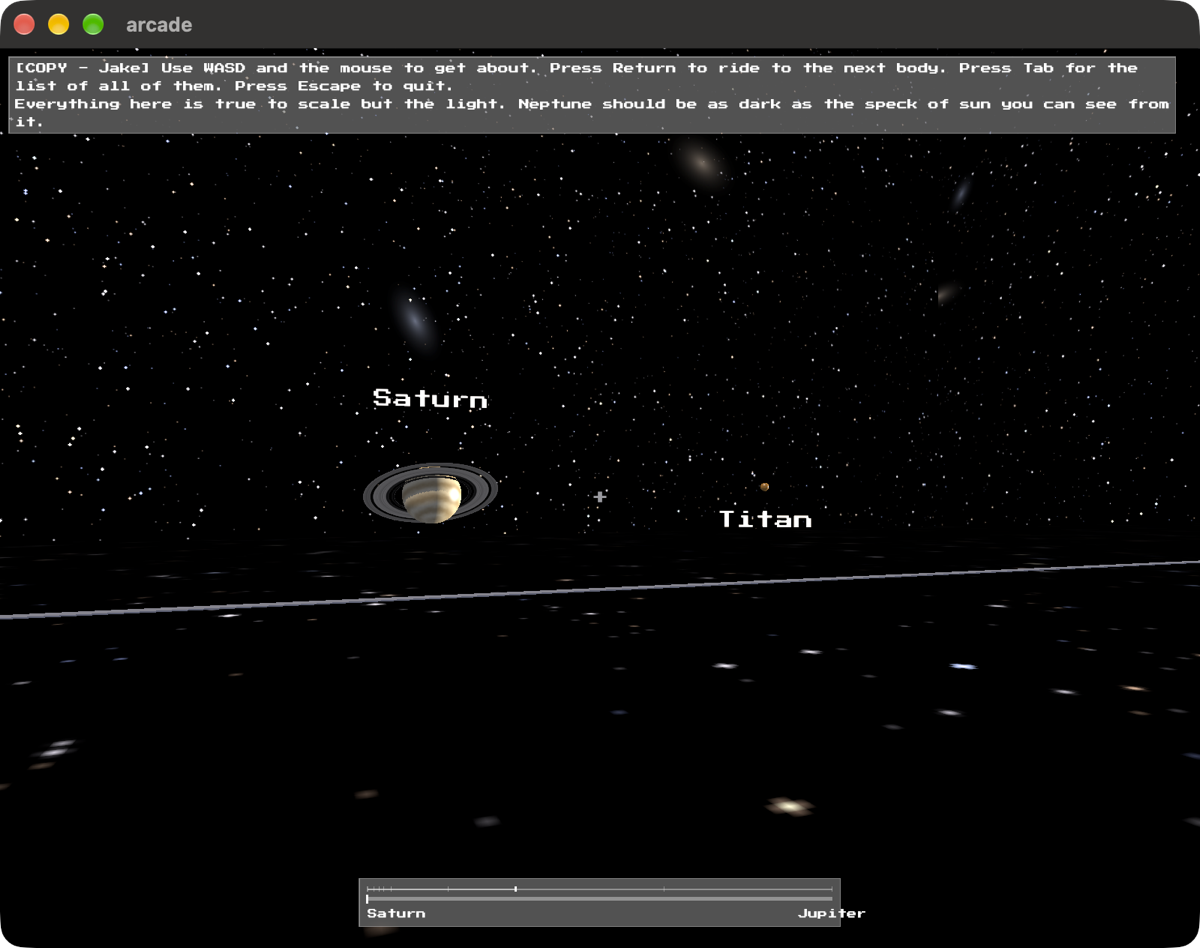
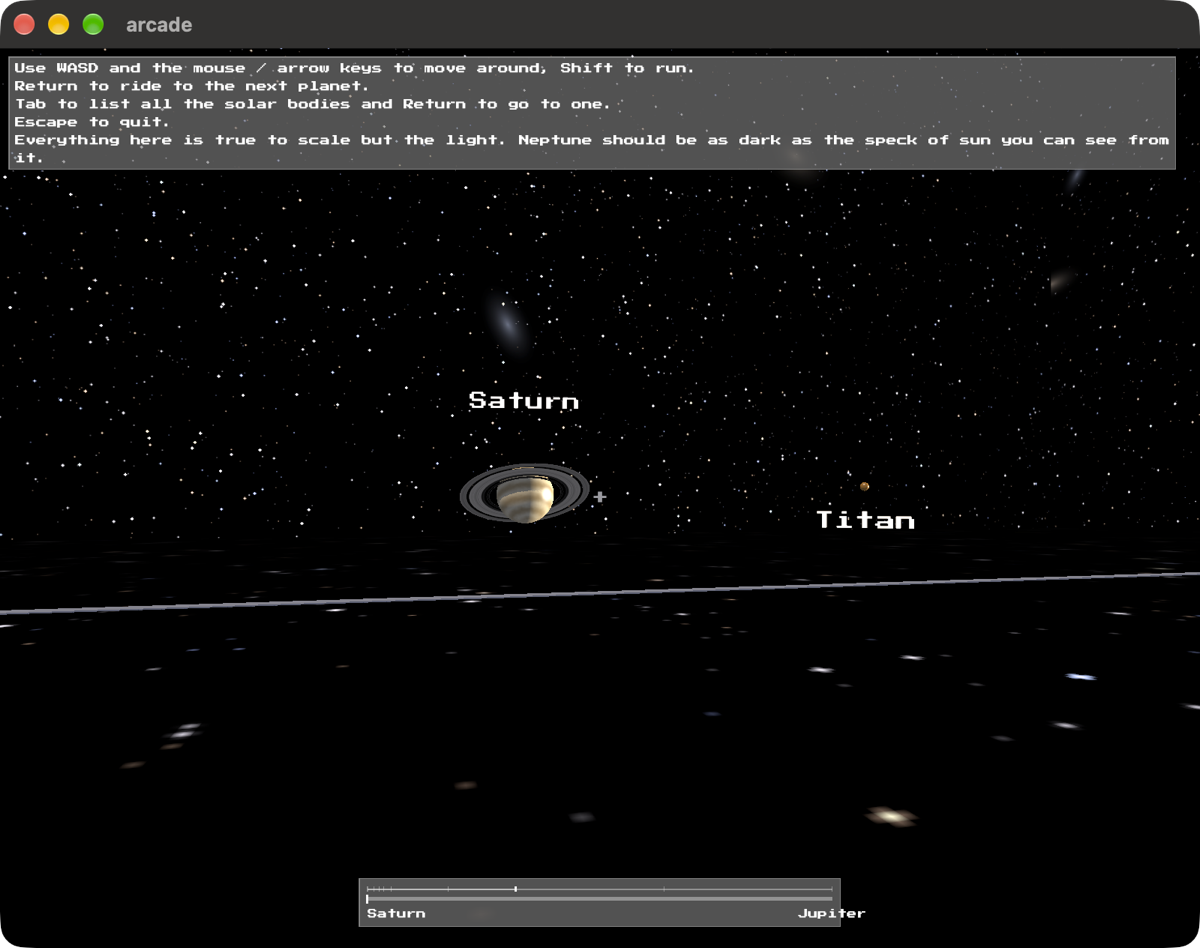
Stage the shot the screenshot actually is
refresh-screenshots regenerates every repo's media/screenshot.png by running
it with --screenshot and photographing the window. The arcade's --screenshot
posed in the hall while the committed picture was Saturn, so the first person
to run that script would have quietly undone a day's work. I took today's
pictures by hand with my own scaffolding instead of through the project's
script, which is how the two came apart.

--screenshot stages Saturn and Titan now, and running refresh-screenshots
arcade produces the committed file. The hall's pose is still here behind
--screenshot=hall; it cost two rounds to derive and its reasoning holds.

Worked out from the bodies rather than written down, the way the hall's is
worked out from a cabinet. Past the moon looking back is the one corner where
both are visible: the ring plane is tilted about the line, so a view along the
line lies in it and the rings are a black streak, and a moon stands out at
right angles to the line, so a view across it puts the moon behind its planet.
From there the rings open 25 degrees and the two sit 38 apart.

The test took two wrong bounds to be worth anything. At 25 degrees it passed
with the aim on the moon rather than between the two, which throws Saturn out
of the frame; at 18 it failed the real pose, because I guessed 12 degrees of
separation where the measurement is 19.

Spec 0018.

diff --git a/src/beyond.rs b/src/beyond.rs
@@ -434,6 +434,41 @@ pub fn mapped(stops: &[Stop], here: usize, at: Vec3, facing: Vec3, door: Vec3) -
     }
 }
 
+/// Where a staged shot of this space stands, how far it looks past the moon,
+/// and which stop it counts as being at.
+///
+/// **Saturn and Titan**, because Saturn is the one body in the tables that is
+/// not a ball and a moon at its true distance is the thing this space exists
+/// to show. Nine metres of star field between a planet and its moon is a fact
+/// no diagram gets across.
+///
+/// **Past the moon, looking back**, which is the only place both are visible
+/// at once. The two pull against each other: the ring plane is tilted about
+/// the line, so a view along the line lies in it and the rings are a black
+/// streak, and you have to look across. But a moon stands out at right angles
+/// to the line, so looking across puts it behind its planet. Standing past
+/// the moon and turning back opens the rings 25 degrees and leaves 24 between
+/// the two.
+///
+/// Worked out from the bodies and not written down, the way the hall's own
+/// staged shot is worked out from a cabinet. A bearing goes stale the day
+/// anything moves; a body does not.
+pub const POSED_PAST: f32 = 1.0 / 3.0;
+pub const POSED_ASIDE: f32 = 2.0 / 9.0;
+
+pub fn posed(door: Vec3) -> Option<(Vec3, f32, usize)> {
+    let stops = stops(door);
+    let at = |name: &str| stops.iter().position(|stop| stop.name == name);
+    let (planet, moon) = (at("Saturn")?, at("Titan")?);
+    let (planet, moon) = (stops[planet].at, stops[moon].at);
+    let gap = moon.x - planet.x;
+    let eye = vec3(moon.x + gap * POSED_PAST, 0.0, moon.z + gap * POSED_ASIDE);
+    // aimed between the two, so neither is at the edge of the glass
+    let look = (planet + moon) * 0.5 - eye;
+
+    Some((eye, look.x.atan2(-look.z), at("Saturn")?))
+}
+
 /// How far apart the posts down the line stand, and how big they are.
 ///
 /// A pair every 250 metres, which at the ride's speed is three a second: fast
@@ -1403,6 +1438,78 @@ mod tests {
         assert!(
             marks.iter().filter(|mark| mark.glows).count() >= 60,
             "there are not thirty glowing pairs down the line"
+        );
+    }
+
+    /// Spec 0018: the staged shot stands where both Saturn and its moon can
+    /// be seen and the rings are open.
+    ///
+    /// The two pull against each other. The ring plane is tilted about the
+    /// line, so a view along the line lies in it and the rings come out as a
+    /// black streak; and a moon stands out at right angles to the line, so a
+    /// view across it puts the moon behind its planet. This is the corner that
+    /// satisfies both, and it is worked out from the bodies rather than
+    /// written down, so that nothing here goes stale the day one moves.
+    #[test]
+    fn the_staged_shot_sees_the_rings_and_the_moon() {
+        let door = door();
+        let stops = stops(door);
+        let (eye, yaw, stop) = posed(door).expect("a staged pose");
+        let at = |name: &str| {
+            stops
+                .iter()
+                .find(|stop| stop.name == name)
+                .expect("a stop")
+                .at
+        };
+        let (saturn, titan) = (at("Saturn"), at("Titan"));
+
+        assert_eq!(stops[stop].name, "Saturn");
+        assert!(
+            eye.x > titan.x,
+            "the eye is at {} and Titan at {}, so it is not past the moon",
+            eye.x,
+            titan.x
+        );
+
+        // which way it looks, by the same rule `Arcade::facing` uses
+        let look = vec3(yaw.sin(), 0.0, -yaw.cos());
+
+        for body in [saturn, titan] {
+            let to = (vec3(body.x, 0.0, body.z) - vec3(eye.x, 0.0, eye.z)).normalize();
+            let off = look.dot(to).acos().to_degrees();
+
+            // the two sit 38 degrees apart, so aimed between them each is 19
+            // off the middle. The glass is 30 from the middle to the top and
+            // wider than that across, so 19 is about half way out.
+            //
+            // 22 and not 25: at 25 the test passed with the aim on the moon
+            // rather than between the two, which throws Saturn right out of
+            // the frame.
+            assert!(
+                off < 22.0,
+                "a body at {} is {:.0} degrees off the middle of the glass",
+                body,
+                off
+            );
+        }
+
+        // and the rings are open. Their plane is tilted about z, so its normal
+        // is (-sin tilt, cos tilt, 0) and a view from the floor only opens them
+        // by its own x: looking down the line, which is all z, is edge on.
+        let tilt = crate::orrery::PLANETS
+            .iter()
+            .find(|planet| planet.body.name == "Saturn")
+            .expect("Saturn is in the tables")
+            .body
+            .tilt
+            .to_radians();
+        let open = (look.x * -tilt.sin()).abs().asin().to_degrees();
+
+        assert!(
+            open > 20.0,
+            "the rings are {:.0} degrees open, which is nearly edge on",
+            open
         );
     }
 

diff --git a/src/main.rs b/src/main.rs
@@ -144,7 +144,18 @@ fn inside_its_reach(how_far: f32, reach: f32) -> f32 {
 }
 
 fn staged() -> bool {
-    std::env::args().any(|arg| arg == "--screenshot")
+    std::env::args().any(|arg| arg.starts_with("--screenshot"))
+}
+
+/// Whether the staged shot is the hall's rather than the system's.
+///
+/// `--screenshot` stages what `media/screenshot.png` actually holds, which is
+/// Saturn and its moon, so that `refresh-screenshots` reproduces the committed
+/// picture rather than quietly replacing it with a different one. The hall's
+/// pose is still here behind `--screenshot=hall`: it cost two rounds to derive
+/// and the reasoning on it is still true.
+fn staged_in_the_hall() -> bool {
+    std::env::args().any(|arg| arg == "--screenshot=hall")
 }
 
 /// How far back from the cabinet the staged shot stands, and how far out of
@@ -484,8 +495,20 @@ impl Arcade {
         let (cradle, ropes) = cradle::strung();
 
         let reaches = room.reaches;
-        // worked out before `room` is moved into the struct below
-        let (posed_at, posed_yaw) = posed(&room);
+        // worked out before `room` is moved into the struct below.
+        //
+        // The system's shot by default, because that is what
+        // `media/screenshot.png` holds and `refresh-screenshots` photographs
+        // whatever `--screenshot` stages. The hall's is behind
+        // `--screenshot=hall`.
+        let (posed_at, posed_yaw, posed_stop) = match beyond::posed(beyond::at(reaches)) {
+            Some((at, yaw, stop)) if !staged_in_the_hall() => (at, yaw, stop),
+            _ => {
+                let (at, yaw) = posed(&room);
+
+                (at, yaw, 0)
+            }
+        };
         let (pool_at, pool_size, pool_deep) = spa::pool(reaches);
         let (tub_at, tub_wide, tub_deep) = spa::tub(room.reaches);
         let mut pool = blitzkit::water::Water::new(pool_at, pool_size, pool_deep, spa::CELLS);
@@ -597,7 +620,7 @@ impl Arcade {
             star_mesh: Vec::new(),
             swung: 0.0,
             swinging_out: false,
-            stop: 0,
+            stop: if staged() { posed_stop } else { 0 },
             riding_to: None,
             listing: None,
             units: Vec::new(),
@@ -635,7 +658,13 @@ impl Arcade {
             // looking down the room from the end you start at: forward is
             // (sin yaw, 0, -cos yaw), so nought faces -z
             yaw: if staged() { posed_yaw } else { 0.0 },
-            pitch: if staged() { POSED_PITCH } else { 0.0 },
+            // level out past the door, where there is no floor worth looking
+            // down at, and a little down in the hall
+            pitch: if staged() && staged_in_the_hall() {
+                POSED_PITCH
+            } else {
+                0.0
+            },
             showing_solid: false,
             wants_planes: false,
             fighting: Vec::new(),

diff --git a/specs/0018-the-system-at-true-scale.md b/specs/0018-the-system-at-true-scale.md
@@ -321,6 +321,28 @@ you through a wall, and its eight names came up stacked on the one speck the
 sun had become. It is also what keeps the two lists apart, since a name is
 picked by which body it is for and the same body stands in both systems.
 
+### The staged shot
+
+`--screenshot` stages Saturn and Titan, which is what `media/screenshot.png`
+holds, so that the project's own `refresh-screenshots` reproduces the committed
+picture rather than quietly replacing it. It staged the hall for a day while
+the committed picture was the system, which is a script that undoes your work
+the first time anybody runs it. The hall's pose is still there behind
+`--screenshot=hall`.
+
+Saturn and Titan because Saturn is the one body in the tables that is not a
+ball, and a moon at its true distance is what this space is for.
+
+**Past the moon, looking back**, which is the only place both are visible at
+once, and the two pull against each other to get there. The ring plane is
+tilted about the line, so a view along the line lies in it and the rings come
+out as a black streak; a moon stands out at right angles to the line, so a view
+across it puts the moon behind its planet. From past the moon the rings open 25
+degrees and the two sit 38 apart.
+
+Worked out from the bodies and not written down, the way the hall's own pose is
+worked out from a cabinet. A bearing goes stale the day anything moves.
+
 ### The sky, and the floor under it
 
 **The spine stands on the stars rather than beside them.** Both were at 0.02,
@@ -386,6 +408,7 @@ thing, and this building knows what those do.
 - One press is one leg, and a second press stops it. — `tests::a_press_rides_one_leg`
 - The list goes straight to any body, opens where you are and does not wrap. — `tests::the_list_goes_straight_to_a_body`
 - Shift runs out there, the way it does everywhere. — `tests::shift_runs_out_there_too`
+- The staged shot sees the rings and the moon at once. — `beyond::tests::the_staged_shot_sees_the_rings_and_the_moon`
 - The spine stands on the stars rather than beside them. — `beyond::tests::the_spine_stands_on_the_stars`
 - And it stops at the door and at the far end. — `beyond::tests::the_ride_stops_at_both_ends`
 - The posts stand up and come often enough to read as speed. — `beyond::tests::the_posts_stand_up_and_come_often`
